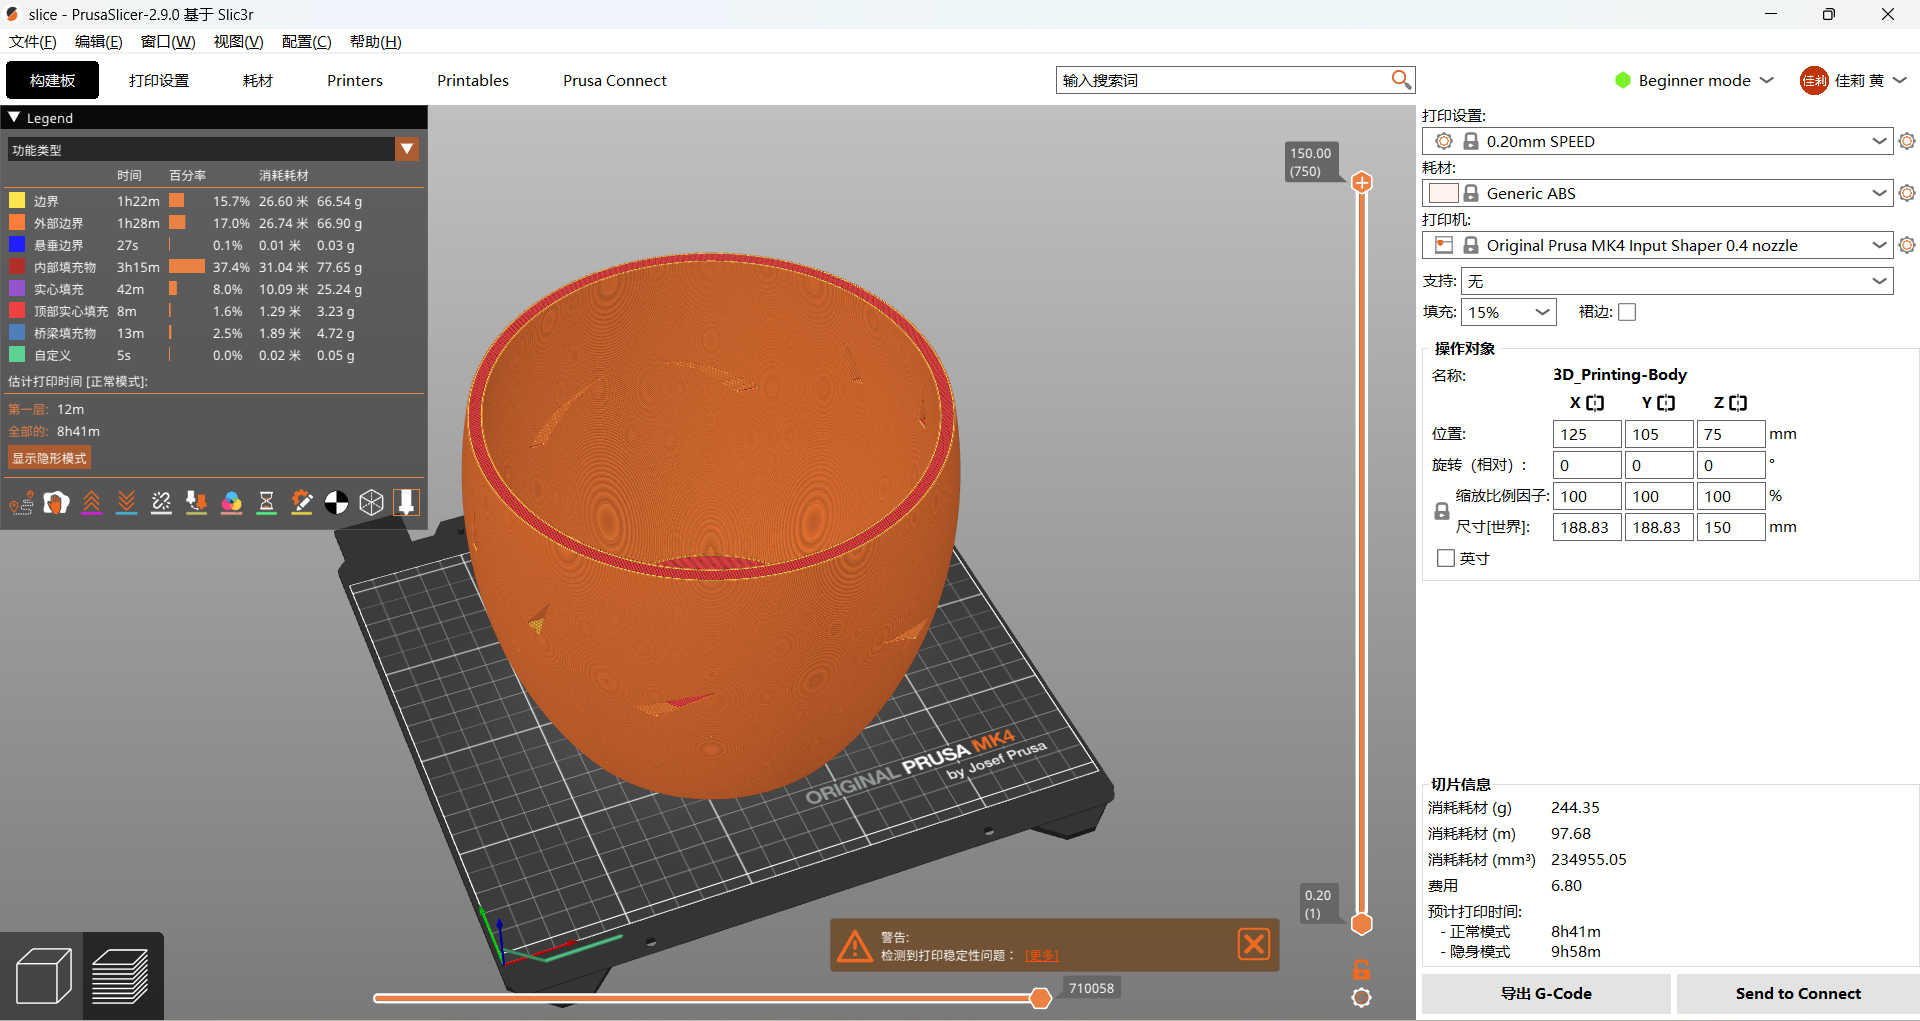
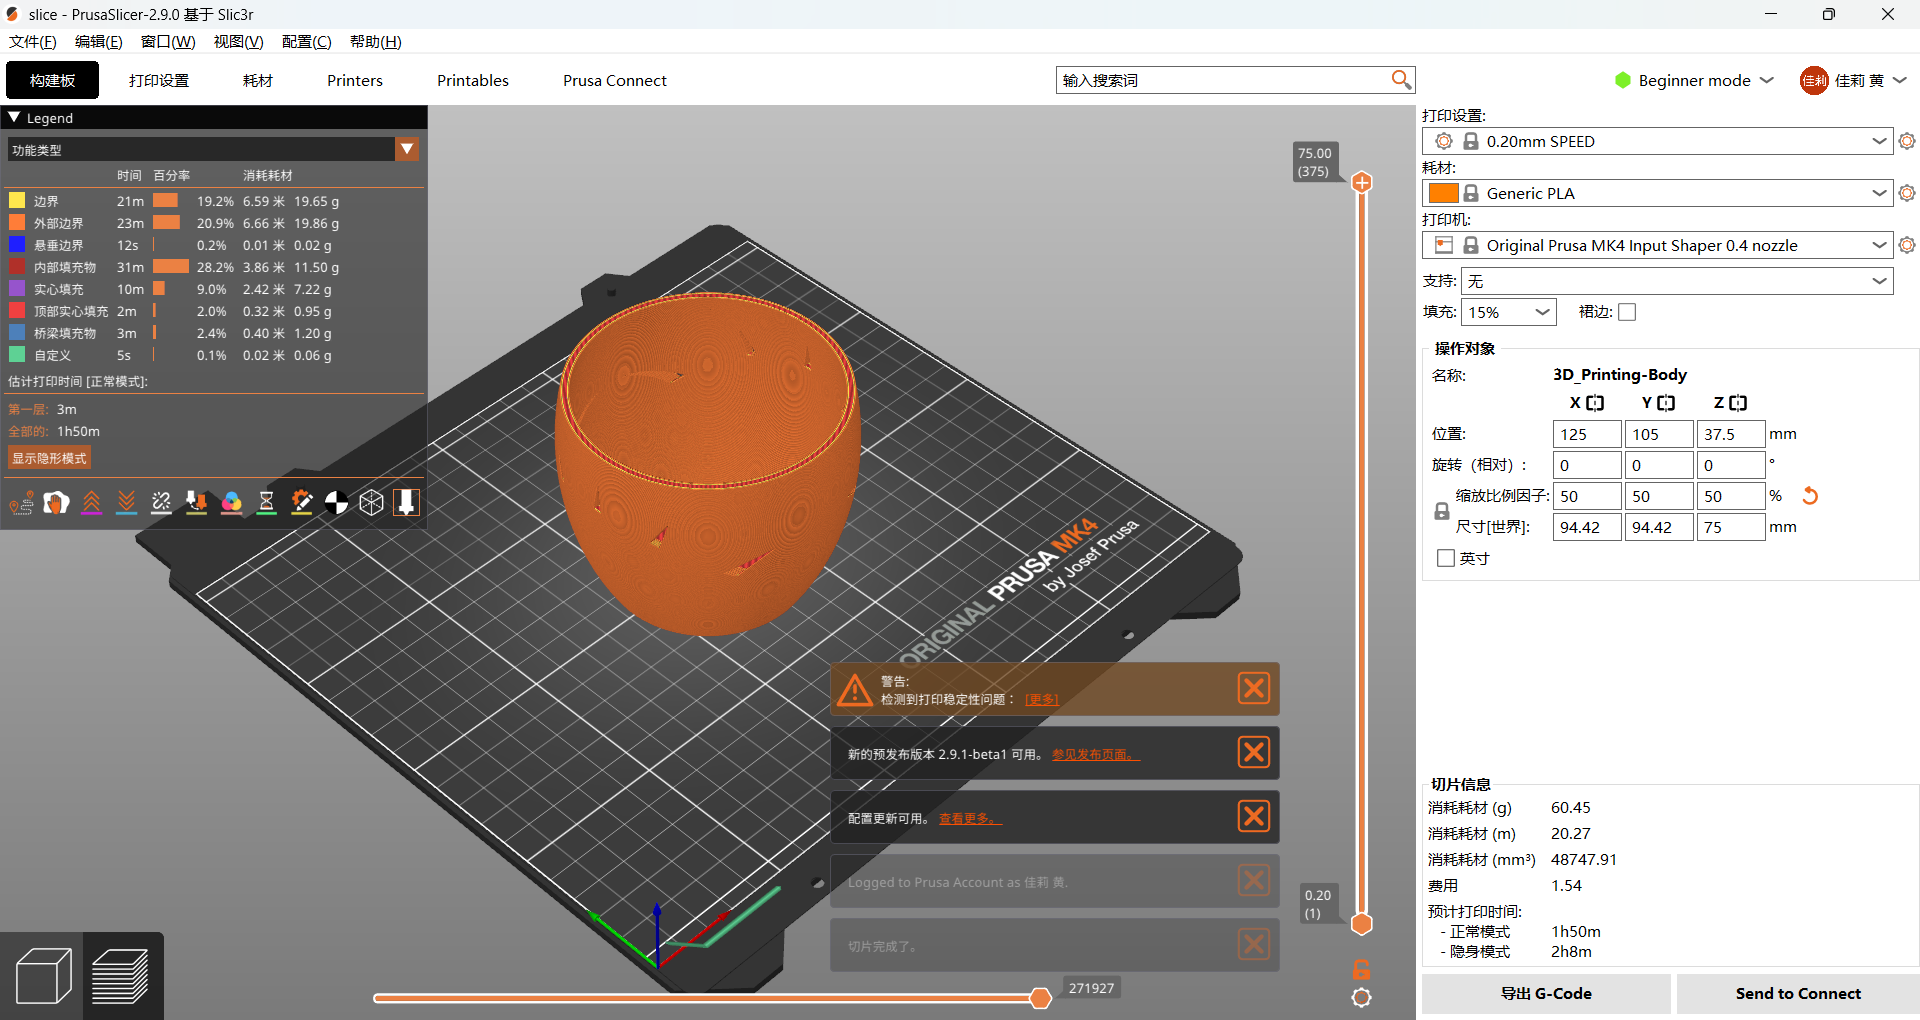
week6 change

diff --git a/assignments/06_3D Printing.html b/assignments/06_3D Printing.html
@@ -17,9 +17,9 @@
                 <h2>Additive Manufacturing and 3D Printing</h2>
                 <p>3D printing is the same thing as additive manufacturing, which is a technology that gradually builds three-dimensional objects by layering materials based on a CAD model (Computer-Aided Design model) or a digital 3D model. Unlike traditional subtractive manufacturing (such as cutting or milling), 3D printing forms the final object by adding material layer by layer.</p>
                 <h2>FDM/FFF 3D printing </h2>
-                <p><strong>FDM (Fused Deposition Modeling): </strong>This technology works by heating and extruding plastic filament (such as PLA, ABS, PETG, etc.), and depositing it layer by layer onto the print bed to gradually build up a three-dimensional object. FDM technology is very common, especially in desktop 3D printers.</p>
-                <p><strong>FFF (Fused Filament Fabrication): </strong>Similar to FDM, FFF is also a technology that uses molten material to print layer by layer. Although the principles of FDM and FFF are the same, FDM is a trademark registered by Stratasys, while FFF is commonly used in open-source and DIY 3D printers.</p>
-                <p>Material Extrusion is a major category of additive manufacturing, and both FDM and FFF fall under this category. They achieve the printing process by extruding molten material.</p>
+                <p><strong>FDM (Fused Deposition Modeling): </strong>Just like FFF, it heating and extruding plastic filament like PLA, ABS, PETG, etc., and depositing it layer by layer(the layer shape are so obvious so most of the time it needs polish) onto the print bed to gradually build up a 3D stuff. FDM technology is very common, especially in desktop 3D printing.</p>
+                <p><strong>FFF (Fused Filament Fabrication): </strong>FFF is also a technology that uses molten material to print layer by layer. But FDM is a trademark registered by Stratasys, while FFF is commonly used in open-source and DIY 3D printers which is free.</p>
+                <p>FDM and FFF are both under Material Extrusion(a major category of additive manufacturing). They achieve the printing process by extruding molten material.</p>
                 <h2>3D Model</h2>
                 <p>I sketch both inside and outside of the half of the pot and use Revolution to make it a full pot shape.</p>
                 <p>I create sketches to model a triangle and circle, then I use Pocket to dig the hole upon the flower pot model to ensure this model can not be easily made with any other digital fabrication process such as laser cutting or CNC milling. And I use PolarPattern to let the hole dig around the pot as a decoration.</p>
